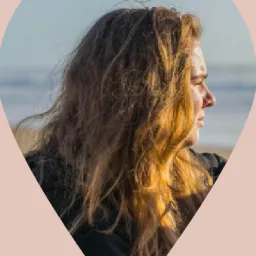
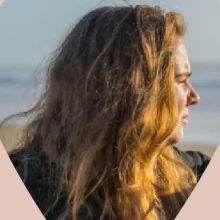
Réponses d’Océane du 22/10 : débuts en 2021, parcours, véhicules jusqu’au permis BE, TVA récupérable pour les pros, trois qualités d’Océane (À propos), dans les deux versions

diff --git a/ancienne/index.html b/ancienne/index.html
@@ -1059,10 +1059,10 @@ ul{list-style:none}
 .matiere .carte-aud__voile{opacity:.32}.matiere .carte-aud__voile-h{opacity:.3}.matiere .carte-aud__voile-t{display:none}
 /* le flou n'est pas un backdrop-filter : masqué dans une carte inclinée en 3D, Chrome perd son dégradé et trace une limite nette.
    C'est une copie floutée de la photo (.carte-aud__flou, ajoutée par theme-matiere.js), masquée en dégradé ; ::after ne garde que la teinte */
-.matiere .carte-aud>.carte-aud__flou{position:absolute;inset:0;width:100%;height:100%;object-fit:cover;z-index:-3;pointer-events:none;
+.matiere .carte-aud .carte-aud__flou{position:absolute;inset:0;width:100%;height:100%;object-fit:cover;z-index:-3;pointer-events:none;
   filter:blur(20px) saturate(1.25) contrast(1.03) brightness(1.04);transform:scale(1.12);transition:transform .6s var(--ease);
   -webkit-mask-image:linear-gradient(to bottom,transparent 36%,#000 58%);mask-image:linear-gradient(to bottom,transparent 36%,#000 58%)}
-.matiere .carte-aud:hover>.carte-aud__flou{transform:scale(1.19)}
+.matiere .carte-aud:hover .carte-aud__flou{transform:scale(1.19)}
 .matiere .carte-aud::after{content:"";position:absolute;left:0;right:0;bottom:0;height:64%;z-index:-1;pointer-events:none;
   background:linear-gradient(to bottom,rgba(68,64,62,0),rgba(68,64,62,.5) 45%,rgba(68,64,62,.66));
   -webkit-mask-image:linear-gradient(to bottom,transparent,#000 34%);mask-image:linear-gradient(to bottom,transparent,#000 34%)}
@@ -1232,6 +1232,8 @@ picture{display:contents}
 .presta__chapo{width:520px;flex:none;opacity:.85}
 .presta__cartes{display:flex;gap:24px}
 .presta__cartes .carte-aud{flex:1}
+/* la photo est dans un <picture> depuis le 08/10 : il ne doit pas compter dans la mise en page, sinon la photo s'affiche dans un cadre au lieu de remplir la carte */
+.carte-aud>picture{display:contents}
 .carte-aud__btn{margin-top:28px;align-self:flex-start;pointer-events:none}
 .carte-aud:hover .carte-aud__btn{gap:24px;padding-left:30px}
 .carte-aud:hover .carte-aud__btn .btn__rond{transform:scale(1.157)}
@@ -1450,8 +1452,10 @@ picture{display:contents}
   .presta__chapo{font-size:16px;line-height:1.65}
   .presta__cartes{flex-direction:column;gap:20px}
   .carte-aud{height:560px;padding:28px 24px}
+  /* hauteur de 560 rendue aux cartes (flex:1 l'annulait en colonne) ; libellé à 13 px pour que « Découvrir l'offre professionnelle » tienne dans la carte */
+  .presta__cartes .carte-aud{flex:none;padding-inline:20px}
   .carte-aud__titre{font-size:30px}
-  .carte-aud__btn{height:52px;padding-left:22px}
+  .carte-aud__btn,.carte-aud:hover .carte-aud__btn{height:52px;padding-left:18px;gap:10px;font-size:13px}
   .trajet{gap:40px}
   .deroule--5{grid-template-columns:1fr;gap:32px;padding-left:48px}
   .deroule--5::before{display:block}
@@ -1560,7 +1564,7 @@ picture{display:contents}
     <div class="fond-sig"></div>
     <div class="epingle rv"><picture><source media="(max-width: 767px)" srcset="assets/img/nda/accueil-interieur-m.webp"><img src="assets/img/nda/accueil-interieur-d.webp" alt="Habitacle d’une voiture : volant et sièges en cuir clair." loading="lazy" decoding="async"></picture></div>
     <div class="manif__txt rv">
-      <h2 id="acc-manif"><span class="t-manifeste">Océane, convoyeuse<br> professionnelle</span> <span class="a-poster-m">depuis 2022.</span></h2>
+      <h2 id="acc-manif"><span class="t-manifeste">Océane, convoyeuse<br> professionnelle</span> <span class="a-poster-m">depuis 2021.</span></h2>
       <p class="t-chapo manif__chapo">Océane Agoutborde a fondé OA Convoyage pour offrir un service de convoyage de véhicules fiable, humain et transparent. Fondatrice et convoyeuse, avec son équipe elle assure un suivi personnalisé de chaque trajet.</p>
       <div class="sig"><img class="sig__portrait" src="assets/img/nda/portrait-signature.webp" alt="Portrait d’Océane Agoutborde" loading="lazy"><div class="sig__txt"><b>Océane Agoutborde</b><span class="t-petit">Fondatrice et convoyeuse.</span></div></div>
     </div>
@@ -1691,15 +1695,14 @@ picture{display:contents}
     <div class="intro__acc rv"><h2 class="t-manifeste" id="pro-intro">Vos transferts entre agences,<br class="d-only"> sans mobiliser vos équipes.</h2></div>
     <div class="intro__desc rv">
       <p class="t-chapo">Agences de location, concessions, négociants, gestionnaires de flotte&nbsp;: quand un véhicule doit passer d’une agence à l’autre, OA Convoyage organise le trajet, de la prise en charge à la remise des clés. Un convoyeur de l’équipe le récupère à l’agence de départ et le conduit par la route jusqu’à l’agence d’arrivée, en France comme à l’étranger. OA Convoyage livre aussi vos véhicules au domicile de vos clients.</p>
-      <p class="t-chapo">Au départ et à l’arrivée, un état des lieux est documenté. L’identité du convoyeur vous est communiquée avant le départ, et vous êtes informé aux étapes clés du trajet. Livraison en moins de 48&nbsp;h. Vous êtes un particulier&nbsp;? <a class="lien-texte" href="#particuliers">Voir le convoyage pour les particuliers</a>.</p>
-      <p class="l-micro ph">[Ce qui change pour un professionnel (demande, devis, paiement, documents, transferts réguliers)&nbsp;: à confirmer avec Océane]</p>
+      <p class="t-chapo">Au départ et à l’arrivée, un état des lieux est documenté. L’identité du convoyeur vous est communiquée avant le départ, et vous êtes informé aux étapes clés du trajet. Livraison en moins de 48&nbsp;h. En tant que professionnel, vous bénéficiez de la même prestation qu’un particulier, et vous récupérez la TVA. Vous êtes un particulier&nbsp;? <a class="lien-texte" href="#particuliers">Voir le convoyage pour les particuliers</a>.</p>
     </div>
   </section>
 
   <!-- ============================================ l'essentiel -->
   <section class="sec sec--rose fiche" aria-labelledby="pro-essentiel">
     <div class="fiche__tete rv"><h2 class="t-manifeste" id="pro-essentiel">L’essentiel, en un coup d’œil.</h2></div>
-    <div class="fiche__lignes rv"><div class="fiche__ligne"><span class="l-micro">Pour qui</span><p class="t-courant">Agences de location, concessions, négociants, gestionnaires de flotte.</p></div><div class="fiche__ligne"><span class="l-micro">Ce qui est compris</span><p class="t-courant">Prise en charge à l’agence de départ<br>Conduite jusqu’à l’agence d’arrivée ou au domicile de votre client<br>État des lieux documenté au départ et à l’arrivée<br>Carburant et péages inclus<br><span class="ph">[Retour du convoyeur&nbsp;: à confirmer]</span></p></div><div class="fiche__ligne"><span class="l-micro">Délai</span><p class="t-courant">Livraison en moins de 48&nbsp;h. <span class="ph">[Point de départ du délai à préciser]</span></p></div><div class="fiche__ligne"><span class="l-micro">Zone</span><p class="t-courant">Toute la France et l’étranger, d’un point A à un point B. <span class="ph">[Pays desservis et éventuelles limites&nbsp;: à confirmer]</span></p></div><div class="fiche__ligne"><span class="l-micro">Trajets récents</span><p class="t-courant">Toulouse&nbsp;→&nbsp;Paris, Mont-de-Marsan&nbsp;→&nbsp;Annemasse, Megève&nbsp;→&nbsp;Castres, et de la Suède vers la France. <a class="lien-texte" href="#convoyages">Voir les convoyages réalisés</a></p></div><div class="fiche__ligne"><span class="l-micro">Véhicules</span><p class="t-courant"><span class="ph">[Types de véhicules et limites (poids, permis) à confirmer]</span></p></div><div class="fiche__ligne"><span class="l-micro">Assurance</span><p class="t-courant"><span class="ph">[Assurance et garanties applicables à confirmer]</span></p></div><div class="fiche__ligne"><span class="l-micro">Prix</span><p class="t-courant">Prix ferme établi après étude de votre demande, carburant et péages inclus.</p></div></div>
+    <div class="fiche__lignes rv"><div class="fiche__ligne"><span class="l-micro">Pour qui</span><p class="t-courant">Agences de location, concessions, négociants, gestionnaires de flotte.</p></div><div class="fiche__ligne"><span class="l-micro">Ce qui est compris</span><p class="t-courant">Prise en charge à l’agence de départ<br>Conduite jusqu’à l’agence d’arrivée ou au domicile de votre client<br>État des lieux documenté au départ et à l’arrivée<br>Carburant et péages inclus<br><span class="ph">[Retour du convoyeur&nbsp;: à confirmer]</span></p></div><div class="fiche__ligne"><span class="l-micro">Délai</span><p class="t-courant">Livraison en moins de 48&nbsp;h. <span class="ph">[Point de départ du délai à préciser]</span></p></div><div class="fiche__ligne"><span class="l-micro">Zone</span><p class="t-courant">Toute la France et l’étranger, d’un point A à un point B. <span class="ph">[Pays desservis et éventuelles limites&nbsp;: à confirmer]</span></p></div><div class="fiche__ligne"><span class="l-micro">Trajets récents</span><p class="t-courant">Toulouse&nbsp;→&nbsp;Paris, Mont-de-Marsan&nbsp;→&nbsp;Annemasse, Megève&nbsp;→&nbsp;Castres, et de la Suède vers la France. <a class="lien-texte" href="#convoyages">Voir les convoyages réalisés</a></p></div><div class="fiche__ligne"><span class="l-micro">Véhicules</span><p class="t-courant">Tout véhicule jusqu’au permis BE&nbsp;: voitures et utilitaires de moins de 3,5&nbsp;t, avec ou sans remorque. Pas de motos ni de poids lourds.</p></div><div class="fiche__ligne"><span class="l-micro">Assurance</span><p class="t-courant"><span class="ph">[Assurance et garanties applicables à confirmer]</span></p></div><div class="fiche__ligne"><span class="l-micro">Prix</span><p class="t-courant">Prix ferme établi après étude de votre demande, carburant et péages inclus. TVA récupérable.</p></div></div>
   </section>
 
   <!-- ============================================ le déroulé -->
@@ -1789,14 +1792,14 @@ picture{display:contents}
     <div class="intro__desc rv">
       <p class="t-chapo">Vous avez trouvé la bonne voiture loin de chez vous, ou le temps vous manque pour aller la chercher&nbsp;: OA Convoyage organise le trajet, de la prise en charge à la remise des clés. Un convoyeur la récupère et la conduit par la route jusqu’à votre domicile.</p>
       <p class="t-chapo">Au départ et à l’arrivée, un état des lieux est documenté. L’identité du convoyeur vous est communiquée avant le départ, et vous êtes informé aux étapes clés du trajet. Livraison en moins de 48&nbsp;h. Vous êtes un professionnel de l’automobile&nbsp;? <a class="lien-texte" href="#professionnels">Voir le convoyage pour les professionnels</a>.</p>
-      <p class="l-micro ph">[Ce qui change pour un particulier (demande, devis, paiement, documents, et pour un achat à distance ce qui se passe chez le vendeur)&nbsp;: à confirmer avec Océane]</p>
+      <p class="l-micro ph">[Achat à distance&nbsp;: ce qui se passe chez le vendeur, à confirmer avec Océane]</p>
     </div>
   </section>
 
   <!-- ============================================ l'essentiel -->
   <section class="sec sec--rose fiche" aria-labelledby="part-essentiel">
     <div class="fiche__tete rv"><h2 class="t-manifeste" id="part-essentiel">L’essentiel, en un coup d’œil.</h2></div>
-    <div class="fiche__lignes rv"><div class="fiche__ligne"><span class="l-micro">Pour qui</span><p class="t-courant">Particuliers&nbsp;: un véhicule acheté à distance, ou à faire livrer chez soi.</p></div><div class="fiche__ligne"><span class="l-micro">Ce qui est compris</span><p class="t-courant">Récupération du véhicule là où il se trouve<br>Conduite jusqu’à votre domicile<br>État des lieux documenté au départ et à l’arrivée<br>Carburant et péages inclus<br><span class="ph">[Retour du convoyeur&nbsp;: à confirmer]</span></p></div><div class="fiche__ligne"><span class="l-micro">Délai</span><p class="t-courant">Livraison en moins de 48&nbsp;h. <span class="ph">[Point de départ du délai à préciser]</span></p></div><div class="fiche__ligne"><span class="l-micro">Zone</span><p class="t-courant">Toute la France et l’étranger, d’un point A à un point B. <span class="ph">[Pays desservis et éventuelles limites&nbsp;: à confirmer]</span></p></div><div class="fiche__ligne"><span class="l-micro">Trajets récents</span><p class="t-courant">Toulouse&nbsp;→&nbsp;Montélimar, La Rochelle&nbsp;→&nbsp;Toulouse, Megève&nbsp;→&nbsp;Castres, et de la Suède vers la France. <a class="lien-texte" href="#convoyages">Voir les convoyages réalisés</a></p></div><div class="fiche__ligne"><span class="l-micro">Véhicules</span><p class="t-courant"><span class="ph">[Types de véhicules et limites (poids, permis) à confirmer]</span></p></div><div class="fiche__ligne"><span class="l-micro">Assurance</span><p class="t-courant"><span class="ph">[Assurance et garanties applicables à confirmer]</span></p></div><div class="fiche__ligne"><span class="l-micro">Prix</span><p class="t-courant">Prix ferme établi après étude de votre demande, carburant et péages inclus.</p></div></div>
+    <div class="fiche__lignes rv"><div class="fiche__ligne"><span class="l-micro">Pour qui</span><p class="t-courant">Particuliers&nbsp;: un véhicule acheté à distance, ou à faire livrer chez soi.</p></div><div class="fiche__ligne"><span class="l-micro">Ce qui est compris</span><p class="t-courant">Récupération du véhicule là où il se trouve<br>Conduite jusqu’à votre domicile<br>État des lieux documenté au départ et à l’arrivée<br>Carburant et péages inclus<br><span class="ph">[Retour du convoyeur&nbsp;: à confirmer]</span></p></div><div class="fiche__ligne"><span class="l-micro">Délai</span><p class="t-courant">Livraison en moins de 48&nbsp;h. <span class="ph">[Point de départ du délai à préciser]</span></p></div><div class="fiche__ligne"><span class="l-micro">Zone</span><p class="t-courant">Toute la France et l’étranger, d’un point A à un point B. <span class="ph">[Pays desservis et éventuelles limites&nbsp;: à confirmer]</span></p></div><div class="fiche__ligne"><span class="l-micro">Trajets récents</span><p class="t-courant">Toulouse&nbsp;→&nbsp;Montélimar, La Rochelle&nbsp;→&nbsp;Toulouse, Megève&nbsp;→&nbsp;Castres, et de la Suède vers la France. <a class="lien-texte" href="#convoyages">Voir les convoyages réalisés</a></p></div><div class="fiche__ligne"><span class="l-micro">Véhicules</span><p class="t-courant">Tout véhicule jusqu’au permis BE&nbsp;: voitures et utilitaires de moins de 3,5&nbsp;t, avec ou sans remorque. Pas de motos ni de poids lourds.</p></div><div class="fiche__ligne"><span class="l-micro">Assurance</span><p class="t-courant"><span class="ph">[Assurance et garanties applicables à confirmer]</span></p></div><div class="fiche__ligne"><span class="l-micro">Prix</span><p class="t-courant">Prix ferme établi après étude de votre demande, carburant et péages inclus.</p></div></div>
   </section>
 
   <!-- ============================================ le déroulé -->
@@ -1870,7 +1873,7 @@ picture{display:contents}
     <div class="poster-portrait__lockup">
       <nav class="poster__ariane l-micro" aria-label="Fil d’Ariane"><a href="#accueil">Accueil</a> › À propos</nav>
       <h1 id="ap-titre"><span class="poster__titre t-poster-m">Ceux à qui vous<br class="d-only"> pouvez confier</span><span class="poster__accent a-poster-m">ce qui compte.</span></h1>
-      <p class="poster-portrait__sous t-chapo">Passionnée d’automobile depuis l’enfance, Océane Agoutborde convoie des véhicules depuis 2022 et a fondé OA Convoyage. Elle reste au volant, avec <span class="ph">[Prénom du convoyeur]</span>, le convoyeur qu’elle a embauché à temps plein.</p>
+      <p class="poster-portrait__sous t-chapo">Passionnée d’automobile depuis l’enfance, Océane Agoutborde convoie des véhicules depuis 2021 et a fondé OA Convoyage. Elle reste au volant, avec <span class="ph">[Prénom du convoyeur]</span>, le convoyeur qu’elle a embauché à temps plein.</p>
       <div class="poster-portrait__actions"><a class="btn btn--contour" href="#" data-goto="ap-parcours"><span>Son parcours</span><span class="btn__rond"><i data-i="arrow-down"></i></span></a></div>
     </div>
     <div class="epingle"><picture><source media="(max-width: 767px)" srcset="assets/img/nda/apropos-hero-m.webp"><img src="assets/img/nda/apropos-hero-d.webp" alt="Main posée sur le volant, forêt à la vitre." loading="eager" decoding="async"></picture></div>
@@ -1888,7 +1891,7 @@ picture{display:contents}
         <div class="piste__rail">
           <span class="piste__fill"></span>
           <span class="piste__car" aria-hidden="true"><i data-i="car"></i></span>
-          <div class="jalon"><div class="jalon__rail"><span class="jalon__route"></span><span class="jalon__pin"><svg viewBox="0 0 26 34" fill="none"><path d="M13 33.25C13 33.25 .65 20.25 .65 13.1C.65 11.48.97 9.87 1.59 8.37C2.21 6.88 3.12 5.51 4.27 4.37C5.41 3.22 6.78 2.31 8.27 1.69C9.77 1.07 11.38.75 13 .75C14.62.75 16.23 1.07 17.73 1.69C19.22 2.31 20.59 3.22 21.73 4.37C22.88 5.51 23.79 6.88 24.41 8.37C25.03 9.87 25.35 11.48 25.35 13.1C25.35 20.25 13 33.25 13 33.25Z" stroke="#5E5F5F" stroke-width="1.52"/><circle cx="13" cy="12.88" r="4.33" fill="#5E5F5F"/></svg></span></div><div class="jalon__txt"><span class="t-poster-m">2022</span><h3 class="t-h3">Les débuts dans le convoyage</h3><p class="t-courant">Après un premier emploi dans la vente, Océane fait de sa passion son métier&nbsp;: elle commence à convoyer des véhicules en indépendante, d’abord via les plateformes de convoyage.</p></div></div><div class="jalon"><div class="jalon__rail"><span class="jalon__route"></span><span class="jalon__pin"><svg viewBox="0 0 26 34" fill="none"><path d="M13 33.25C13 33.25 .65 20.25 .65 13.1C.65 11.48.97 9.87 1.59 8.37C2.21 6.88 3.12 5.51 4.27 4.37C5.41 3.22 6.78 2.31 8.27 1.69C9.77 1.07 11.38.75 13 .75C14.62.75 16.23 1.07 17.73 1.69C19.22 2.31 20.59 3.22 21.73 4.37C22.88 5.51 23.79 6.88 24.41 8.37C25.03 9.87 25.35 11.48 25.35 13.1C25.35 20.25 13 33.25 13 33.25Z" stroke="#5E5F5F" stroke-width="1.52"/><circle cx="13" cy="12.88" r="4.33" fill="#5E5F5F"/></svg></span></div><div class="jalon__txt"><span class="t-poster-m">2022–2025</span><h3 class="t-h3">Des clients en direct</h3><p class="t-courant">Les demandes en direct se multiplient, de particuliers comme de professionnels de l’automobile, avec des trajets longue distance réguliers, jusqu’à ce qu’Océane quitte les plateformes. <span class="ph">[Détails à confirmer]</span></p></div></div><div class="jalon"><div class="jalon__rail"><span class="jalon__route"></span><span class="jalon__pin"><svg viewBox="0 0 26 34" fill="none"><path d="M13 33.25C13 33.25 .65 20.25 .65 13.1C.65 11.48.97 9.87 1.59 8.37C2.21 6.88 3.12 5.51 4.27 4.37C5.41 3.22 6.78 2.31 8.27 1.69C9.77 1.07 11.38.75 13 .75C14.62.75 16.23 1.07 17.73 1.69C19.22 2.31 20.59 3.22 21.73 4.37C22.88 5.51 23.79 6.88 24.41 8.37C25.03 9.87 25.35 11.48 25.35 13.1C25.35 20.25 13 33.25 13 33.25Z" stroke="#5E5F5F" stroke-width="1.52"/><circle cx="13" cy="12.88" r="4.33" fill="#5E5F5F"/></svg></span></div><div class="jalon__txt"><span class="t-poster-m">2025</span><h3 class="t-h3">Création d’OA Convoyage (EURL)</h3><p class="t-courant">L’activité se structure&nbsp;: création d’une société dédiée, pour répondre aux demandes des professionnels comme des particuliers dans un cadre clair.</p></div></div><div class="jalon"><div class="jalon__rail"><span class="jalon__route"></span><span class="jalon__pin"><svg viewBox="0 0 26 34" fill="none"><path d="M13 33.25C13 33.25 .65 20.25 .65 13.1C.65 11.48.97 9.87 1.59 8.37C2.21 6.88 3.12 5.51 4.27 4.37C5.41 3.22 6.78 2.31 8.27 1.69C9.77 1.07 11.38.75 13 .75C14.62.75 16.23 1.07 17.73 1.69C19.22 2.31 20.59 3.22 21.73 4.37C22.88 5.51 23.79 6.88 24.41 8.37C25.03 9.87 25.35 11.48 25.35 13.1C25.35 20.25 13 33.25 13 33.25Z" stroke="#5E5F5F" stroke-width="1.52"/><circle cx="13" cy="12.88" r="4.33" fill="#5E5F5F"/></svg></span></div><div class="jalon__txt"><span class="a-poster-m">Aujourd’hui</span><h3 class="t-h3">Deux convoyeurs</h3><p class="t-courant">Océane a embauché un convoyeur à temps plein, à qui elle commence à confier des missions, et reste elle-même au volant. <span class="ph">[Date d’arrivée&nbsp;: à confirmer]</span></p></div></div>
+          <div class="jalon"><div class="jalon__rail"><span class="jalon__route"></span><span class="jalon__pin"><svg viewBox="0 0 26 34" fill="none"><path d="M13 33.25C13 33.25 .65 20.25 .65 13.1C.65 11.48.97 9.87 1.59 8.37C2.21 6.88 3.12 5.51 4.27 4.37C5.41 3.22 6.78 2.31 8.27 1.69C9.77 1.07 11.38.75 13 .75C14.62.75 16.23 1.07 17.73 1.69C19.22 2.31 20.59 3.22 21.73 4.37C22.88 5.51 23.79 6.88 24.41 8.37C25.03 9.87 25.35 11.48 25.35 13.1C25.35 20.25 13 33.25 13 33.25Z" stroke="#5E5F5F" stroke-width="1.52"/><circle cx="13" cy="12.88" r="4.33" fill="#5E5F5F"/></svg></span></div><div class="jalon__txt"><span class="t-poster-m">2021</span><h3 class="t-h3">Les débuts dans le convoyage</h3><p class="t-courant">Après le Covid, Océane quitte l’animalerie et sa routine. Passionnée d’automobile depuis toute petite, elle se lance dans le convoyage, d’abord via les plateformes.</p></div></div><div class="jalon"><div class="jalon__rail"><span class="jalon__route"></span><span class="jalon__pin"><svg viewBox="0 0 26 34" fill="none"><path d="M13 33.25C13 33.25 .65 20.25 .65 13.1C.65 11.48.97 9.87 1.59 8.37C2.21 6.88 3.12 5.51 4.27 4.37C5.41 3.22 6.78 2.31 8.27 1.69C9.77 1.07 11.38.75 13 .75C14.62.75 16.23 1.07 17.73 1.69C19.22 2.31 20.59 3.22 21.73 4.37C22.88 5.51 23.79 6.88 24.41 8.37C25.03 9.87 25.35 11.48 25.35 13.1C25.35 20.25 13 33.25 13 33.25Z" stroke="#5E5F5F" stroke-width="1.52"/><circle cx="13" cy="12.88" r="4.33" fill="#5E5F5F"/></svg></span></div><div class="jalon__txt"><span class="t-poster-m">2023</span><h3 class="t-h3">Remarquée sur LinkedIn</h3><p class="t-courant">Après deux ans de plateformes, Océane se fait remarquer sur LinkedIn&nbsp;: elle travaille désormais en direct, en collaboration avec de nombreuses concessions.</p></div></div><div class="jalon"><div class="jalon__rail"><span class="jalon__route"></span><span class="jalon__pin"><svg viewBox="0 0 26 34" fill="none"><path d="M13 33.25C13 33.25 .65 20.25 .65 13.1C.65 11.48.97 9.87 1.59 8.37C2.21 6.88 3.12 5.51 4.27 4.37C5.41 3.22 6.78 2.31 8.27 1.69C9.77 1.07 11.38.75 13 .75C14.62.75 16.23 1.07 17.73 1.69C19.22 2.31 20.59 3.22 21.73 4.37C22.88 5.51 23.79 6.88 24.41 8.37C25.03 9.87 25.35 11.48 25.35 13.1C25.35 20.25 13 33.25 13 33.25Z" stroke="#5E5F5F" stroke-width="1.52"/><circle cx="13" cy="12.88" r="4.33" fill="#5E5F5F"/></svg></span></div><div class="jalon__txt"><span class="t-poster-m">2025</span><h3 class="t-h3">Création d’OA Convoyage (EURL)</h3><p class="t-courant">L’activité se structure&nbsp;: création d’une société dédiée, pour répondre aux demandes des professionnels comme des particuliers dans un cadre clair.</p></div></div><div class="jalon"><div class="jalon__rail"><span class="jalon__route"></span><span class="jalon__pin"><svg viewBox="0 0 26 34" fill="none"><path d="M13 33.25C13 33.25 .65 20.25 .65 13.1C.65 11.48.97 9.87 1.59 8.37C2.21 6.88 3.12 5.51 4.27 4.37C5.41 3.22 6.78 2.31 8.27 1.69C9.77 1.07 11.38.75 13 .75C14.62.75 16.23 1.07 17.73 1.69C19.22 2.31 20.59 3.22 21.73 4.37C22.88 5.51 23.79 6.88 24.41 8.37C25.03 9.87 25.35 11.48 25.35 13.1C25.35 20.25 13 33.25 13 33.25Z" stroke="#5E5F5F" stroke-width="1.52"/><circle cx="13" cy="12.88" r="4.33" fill="#5E5F5F"/></svg></span></div><div class="jalon__txt"><span class="a-poster-m">Aujourd’hui</span><h3 class="t-h3">Deux convoyeurs</h3><p class="t-courant">Océane a embauché un convoyeur à temps plein, à qui elle commence à confier des missions, et reste elle-même au volant. <span class="ph">[Date d’arrivée&nbsp;: à confirmer]</span></p></div></div>
         </div>
       </div>
       <div class="piste-sec__notes">
@@ -1904,10 +1907,10 @@ picture{display:contents}
     <div class="exig">
       <div class="exig__tete rv">
         <h2 class="t-manifeste" id="ap-exig">Ce que nous exigeons<br class="d-only"> sur chaque mission.</h2>
-        <p class="t-chapo">Les standards tenus sur chaque mission, du départ à la livraison, pour les <a class="lien-texte" href="#professionnels">professionnels</a> comme pour les <a class="lien-texte" href="#particuliers">particuliers</a>.</p>
-        <p class="l-micro ph">[Qualités et formulations à confirmer&nbsp;: ne rien affirmer qui n’ait été validé par Océane]</p>
+        <p class="t-chapo">Efficacité, bonne humeur et professionnalisme&nbsp;: les mots d’Océane pour décrire OA Convoyage, tenus sur chaque mission pour les <a class="lien-texte" href="#professionnels">professionnels</a> comme pour les <a class="lien-texte" href="#particuliers">particuliers</a>.</p>
+        <p class="l-micro ph">[Les trois qualités sont celles d’Océane (22/10)&nbsp;; leurs descriptions sont à lui faire valider]</p>
       </div>
-      <div class="qualites rv" data-js="qualites"><div class="qualite is-on"><div class="qualite__txt"><span class="qualite__t t-poster-s">Sérieux</span><div class="qualite__d"><p class="t-chapo">Chaque mission est préparée en amont par le convoyeur&nbsp;: rendez-vous, documents, contacts sur place.</p></div></div></div><div class="qualite"><div class="qualite__txt"><span class="qualite__t t-poster-s">Ponctualité</span><div class="qualite__d"><p class="t-chapo">Les horaires convenus sont tenus&nbsp;; le client est prévenu du moindre imprévu sur la route.</p></div></div></div><div class="qualite"><div class="qualite__txt"><span class="qualite__t t-poster-s">Communication</span><div class="qualite__d"><p class="t-chapo">Le client sait où en est son véhicule et qui le conduit, sans avoir à relancer.</p></div></div></div><div class="qualite"><div class="qualite__txt"><span class="qualite__t t-poster-s">Attention au véhicule</span><div class="qualite__d"><p class="t-chapo">Une conduite adaptée à chaque véhicule, un état des lieux documenté au départ et à l’arrivée.</p></div></div></div><div class="qualite"><div class="qualite__txt"><span class="qualite__t t-poster-s">Professionnalisme</span><div class="qualite__d"><p class="t-chapo">Une présentation et une attitude à la hauteur des clients qui nous confient leur véhicule.</p></div></div></div></div>
+      <div class="qualites rv" data-js="qualites"><div class="qualite is-on"><div class="qualite__txt"><span class="qualite__t t-poster-s">Efficacité</span><div class="qualite__d"><p class="t-chapo">Chaque mission est préparée en amont&nbsp;: rendez-vous, documents, contacts sur place. Les horaires convenus sont tenus, et le véhicule est livré en moins de 48&nbsp;h.</p></div></div></div><div class="qualite"><div class="qualite__txt"><span class="qualite__t t-poster-s">Bonne humeur</span><div class="qualite__d"><p class="t-chapo">Un convoyage sans stress, du premier appel à la remise des clés. Vous êtes informé aux étapes clés du trajet, sans avoir à relancer.</p></div></div></div><div class="qualite"><div class="qualite__txt"><span class="qualite__t t-poster-s">Professionnalisme</span><div class="qualite__d"><p class="t-chapo">Une présentation et une attitude à la hauteur des clients qui nous confient leur véhicule, et un état des lieux documenté au départ et à l’arrivée.</p></div></div></div></div>
     </div>
   </section>
 
@@ -1984,7 +1987,7 @@ picture{display:contents}
             <label class="champ champ--aide"><input class="champ__in" name="depart" type="text" autocomplete="off" placeholder="Adresse, code postal, ville" required><span class="champ__lib">Adresse de départ *</span><span class="champ__ligne"></span><span class="champ__active"></span><span class="champ__aide">Où se trouve le véhicule</span></label>
             <label class="champ champ--aide"><input class="champ__in" name="arrivee" type="text" autocomplete="off" placeholder="Adresse, code postal, ville" required><span class="champ__lib">Adresse d’arrivée *</span><span class="champ__ligne"></span><span class="champ__active"></span><span class="champ__aide">Où le véhicule doit être livré</span></label>
           </div>
-          <label class="champ champ--aide champ--liste is-up"><select class="champ__in" name="vehicule"><option value="" selected>Choisir</option><option value="citadine">Citadine ou berline</option><option value="suv">SUV ou monospace</option><option value="utilitaire">Utilitaire</option><option value="autre">Autre</option></select><span class="champ__lib">Type de véhicule</span><i class="champ__chevron" data-i="chevron-down"></i><span class="champ__ligne"></span><span class="champ__active"></span><span class="champ__aide">Citadine ou berline, SUV ou monospace, utilitaire, autre <span class="ph">[liste à confirmer]</span></span></label>
+          <label class="champ champ--aide champ--liste is-up"><select class="champ__in" name="vehicule"><option value="" selected>Choisir</option><option value="citadine">Citadine ou berline</option><option value="suv">SUV ou monospace</option><option value="utilitaire">Utilitaire</option><option value="autre">Autre</option></select><span class="champ__lib">Type de véhicule</span><i class="champ__chevron" data-i="chevron-down"></i><span class="champ__ligne"></span><span class="champ__active"></span><span class="champ__aide">Tout véhicule jusqu’au permis BE, avec ou sans remorque. Pas de motos.</span></label>
           <div class="form-rangee">
             <label class="champ champ--aide"><input class="champ__in" name="nom" type="text" autocomplete="family-name" placeholder="Votre nom" required><span class="champ__lib">Nom *</span><span class="champ__ligne"></span><span class="champ__active"></span><span class="champ__aide">Pour savoir à qui nous répondons</span></label>
             <label class="champ champ--aide"><input class="champ__in" name="prenom" type="text" autocomplete="given-name" placeholder="Votre prénom" required><span class="champ__lib">Prénom *</span><span class="champ__ligne"></span><span class="champ__active"></span><span class="champ__aide">Pour vous répondre personnellement</span></label>
@@ -2728,7 +2731,10 @@ window.OAonScroll(st => { allumer(); if (!reduce) { cible(st); if (!raf) raf = r
 window.OAonResize(allumer);
 
 // cartes : le flou sous le texte est une copie floutée de la photo, placée juste après elle (voir theme-matiere.css)
-$$('.carte-aud').forEach(c => { const ph = c.querySelector('.carte-aud__photo'); if (ph && !c.querySelector('.carte-aud__flou')) { const f = ph.cloneNode(); f.className = 'carte-aud__flou'; f.alt = ''; f.setAttribute('aria-hidden', 'true'); ph.after(f); } });
+$$('.carte-aud').forEach(c => { const ph = c.querySelector('.carte-aud__photo'); if (ph && !c.querySelector('.carte-aud__flou')) {
+  // photo dans un <picture> : on copie le <picture> entier, pour que le flou prenne la même image (mobile ou ordinateur) que la photo nette
+  const pic = ph.closest('picture'); const copie = (pic || ph).cloneNode(true); const f = pic ? copie.querySelector('img') : copie;
+  f.className = 'carte-aud__flou'; f.alt = ''; f.setAttribute('aria-hidden', 'true'); copie.setAttribute('aria-hidden', 'true'); (pic || ph).after(copie); } });
 
 // cartes : reflet qui suit le pointeur, inclinaison discrète
 $$('.carte-aud').forEach(c => {

diff --git a/nouvelle/a-propos.html b/nouvelle/a-propos.html
@@ -4,7 +4,7 @@
 <meta charset="utf-8">
 <meta name="viewport" content="width=device-width, initial-scale=1, viewport-fit=cover">
 <title>À propos d’OA Convoyage, Océane Agoutborde et son équipe</title>
-<meta name="description" content="Passionnée d’automobile, Océane Agoutborde convoie des véhicules depuis 2022 et a fondé OA Convoyage. Une équipe de deux, les mêmes procédures sur chaque mission.">
+<meta name="description" content="Passionnée d’automobile, Océane Agoutborde convoie des véhicules depuis 2021 et a fondé OA Convoyage. Une équipe de deux, les mêmes procédures sur chaque mission.">
 <meta name="robots" content="noindex, nofollow">
 <meta name="theme-color" content="#faf8f3">
 <link rel="icon" href="assets/svg/icone.svg" type="image/svg+xml">
@@ -40,7 +40,7 @@
     <div class="hero-public__texte">
       <nav class="ariane" aria-label="Fil d’Ariane"><ol><li><a href="accueil.html">Accueil</a></li><li aria-current="page">À propos</li></ol></nav>
       <h1 class="hero-public__titre" id="hero-titre"><span class="t-titre1 hero-public__ligne">Ceux à qui vous<br class="br-d"> pouvez confier</span> <span class="t-accent-m hero-public__accent" data-script>ce qui compte.</span></h1>
-      <p class="t-chapo hero-public__chapo hero-public__chapo--large">Passionnée d’automobile depuis l’enfance, Océane Agoutborde convoie des véhicules depuis 2022 et a fondé OA Convoyage. Elle reste au volant, avec [Prénom du convoyeur], le convoyeur qu’elle a embauché à temps plein.</p>
+      <p class="t-chapo hero-public__chapo hero-public__chapo--large">Passionnée d’automobile depuis l’enfance, Océane Agoutborde convoie des véhicules depuis 2021 et a fondé OA Convoyage. Elle reste au volant, avec [Prénom du convoyeur], le convoyeur qu’elle a embauché à temps plein.</p>
       <a class="lien lien--sombre hero-public__lien" href="#parcours"><span class="lien__ligne"><span class="lien__libelle">Son parcours</span><svg class="icone icone--fleche lien__fleche" viewBox="0 0 24 24" fill="none" stroke="currentColor" stroke-width="1.5" stroke-linecap="round" stroke-linejoin="round" aria-hidden="true" focusable="false"><path d="M5 12H19"/><path d="M12 5L19 12L12 19"/></svg>
 </span><span class="lien__trait" aria-hidden="true"></span></a>
 
@@ -66,17 +66,17 @@
       <ol class="jalons" data-jalons>
         <li class="jalons__filet" aria-hidden="true"></li>
         <li class="jalon jalon--passe" data-jalon data-carte>
-  <span class="jalon__annee">2022</span>
+  <span class="jalon__annee">2021</span>
   <span class="jalon__repere" aria-hidden="true"><span class="jalon__halo"></span><span class="jalon__anneau"></span></span>
   <h3 class="jalon__titre">Les débuts dans le convoyage</h3>
-  <p class="jalon__texte">Après un premier emploi dans la vente, Océane fait de sa passion son métier&nbsp;: elle commence à convoyer des véhicules en indépendante, d’abord via les plateformes de convoyage.</p>
+  <p class="jalon__texte">Après le Covid, Océane quitte l’animalerie et sa routine. Passionnée d’automobile depuis toute petite, elle se lance dans le convoyage, d’abord via les plateformes.</p>
 </li>
 
         <li class="jalon jalon--passe" data-jalon data-carte>
-  <span class="jalon__annee">2022–2025</span>
+  <span class="jalon__annee">2023</span>
   <span class="jalon__repere" aria-hidden="true"><span class="jalon__halo"></span><span class="jalon__anneau"></span></span>
-  <h3 class="jalon__titre">Des clients en direct</h3>
-  <p class="jalon__texte">Les demandes en direct se multiplient, de particuliers comme de professionnels de l’automobile, avec des trajets longue distance réguliers, jusqu’à ce qu’Océane quitte les plateformes. [Détails à confirmer]</p>
+  <h3 class="jalon__titre">Remarquée sur LinkedIn</h3>
+  <p class="jalon__texte">Après deux ans de plateformes, Océane se fait remarquer sur LinkedIn&nbsp;: elle travaille désormais en direct, en collaboration avec de nombreuses concessions.</p>
 </li>
 
         <li class="jalon jalon--passe" data-jalon data-carte>
@@ -103,7 +103,7 @@
 </button>
 </div>
 
-    <p class="crochet parcours__crochet">[Dates, étapes et éléments de parcours à valider avec Océane avant publication]</p>
+    <p class="crochet parcours__crochet">[2023&nbsp;: année déduite des «&nbsp;deux ans&nbsp;» de plateformes, à confirmer avec Océane]</p>
     <p class="crochet parcours__crochet parcours__crochet--2">[Citation proposée, tirée de son post LinkedIn&nbsp;: «&nbsp;C’est LE job de rêve, je travaille avec plaisir, […] je rencontre des gens incroyables.&nbsp;» Océane, fondatrice d’OA Convoyage. À valider avec elle]</p>
   </section>
 
@@ -111,19 +111,15 @@
   <section class="exigence" aria-labelledby="exigence-titre">
     <h2 class="t-titre2 exigence__titre" id="exigence-titre" data-lignes>Ce que nous exigeons<br class="br-d"> sur chaque mission.</h2>
     <dl class="fiche exigence__grille">
-      <div class="exigence__intro"><p class="t-chapo">Les standards tenus sur chaque mission, du départ à la livraison, pour les <a class="lien-texte" href="professionnels.html">professionnels</a> comme pour les <a class="lien-texte" href="particuliers.html">particuliers</a>.</p></div>
-      <div class="ligne-fiche "><dt class="ligne-fiche__libelle">Sérieux</dt><dd class="ligne-fiche__valeur">Chaque mission est préparée en amont par le convoyeur&nbsp;: rendez-vous, documents, contacts sur place.</dd></div>
+      <div class="exigence__intro"><p class="t-chapo">Efficacité, bonne humeur et professionnalisme&nbsp;: les mots d’Océane pour décrire OA Convoyage, tenus sur chaque mission pour les <a class="lien-texte" href="professionnels.html">professionnels</a> comme pour les <a class="lien-texte" href="particuliers.html">particuliers</a>.</p></div>
+      <div class="ligne-fiche "><dt class="ligne-fiche__libelle">Efficacité</dt><dd class="ligne-fiche__valeur">Chaque mission est préparée en amont&nbsp;: rendez-vous, documents, contacts sur place. Les horaires convenus sont tenus, et le véhicule est livré en moins de 48&nbsp;h.</dd></div>
 
-      <div class="ligne-fiche "><dt class="ligne-fiche__libelle">Ponctualité</dt><dd class="ligne-fiche__valeur">Les horaires convenus sont tenus&nbsp;; le client est prévenu du moindre imprévu sur la route.</dd></div>
+      <div class="ligne-fiche "><dt class="ligne-fiche__libelle">Bonne humeur</dt><dd class="ligne-fiche__valeur">Un convoyage sans stress, du premier appel à la remise des clés. Vous êtes informé aux étapes clés du trajet, sans avoir à relancer.</dd></div>
 
-      <div class="ligne-fiche "><dt class="ligne-fiche__libelle">Communication</dt><dd class="ligne-fiche__valeur">Le client sait où en est son véhicule et qui le conduit, sans avoir à relancer.</dd></div>
-
-      <div class="ligne-fiche "><dt class="ligne-fiche__libelle">Attention au véhicule</dt><dd class="ligne-fiche__valeur">Une conduite adaptée à chaque véhicule, un état des lieux documenté au départ et à l’arrivée.</dd></div>
-
-      <div class="ligne-fiche "><dt class="ligne-fiche__libelle">Professionnalisme</dt><dd class="ligne-fiche__valeur">Une présentation et une attitude à la hauteur des clients qui nous confient leur véhicule.</dd></div>
+      <div class="ligne-fiche "><dt class="ligne-fiche__libelle">Professionnalisme</dt><dd class="ligne-fiche__valeur">Une présentation et une attitude à la hauteur des clients qui nous confient leur véhicule, et un état des lieux documenté au départ et à l’arrivée.</dd></div>
 
     </dl>
-    <p class="crochet exigence__crochet">[Qualités et formulations à confirmer&nbsp;: ne rien affirmer qui n’ait été validé par Océane]</p>
+    <p class="crochet exigence__crochet">[Les trois qualités sont celles d’Océane (22/10)&nbsp;; leurs descriptions sont à lui faire valider]</p>
   </section>
 
   <!-- ================================================== l'équipe -->

diff --git a/nouvelle/professionnels.html b/nouvelle/professionnels.html
@@ -98,9 +98,8 @@
     <h2 class="t-titre2 intro-public__titre" id="intro-titre" data-lignes data-derive>Vos transferts entre agences,<br class="br-d"> sans mobiliser vos équipes.</h2>
     <div class="intro-public__colonnes">
       <p class="t-corps-l" data-monte>Agences de location, concessions, négociants, gestionnaires de flotte&nbsp;: quand un véhicule doit passer d’une agence à l’autre, OA Convoyage organise le trajet, de la prise en charge à la remise des clés. Un convoyeur de l’équipe le récupère à l’agence de départ et le conduit par la route jusqu’à l’agence d’arrivée, en France comme à l’étranger. OA Convoyage livre aussi vos véhicules au domicile de vos clients.</p>
-      <p class="t-corps-l" data-monte>Au départ et à l’arrivée, un état des lieux est documenté. L’identité du convoyeur vous est communiquée avant le départ, et vous êtes informé aux étapes clés du trajet. Livraison en moins de 48&nbsp;h. Vous êtes un particulier&nbsp;? <a class="lien-texte" href="particuliers.html">Voir le convoyage pour les particuliers</a>.</p>
+      <p class="t-corps-l" data-monte>Au départ et à l’arrivée, un état des lieux est documenté. L’identité du convoyeur vous est communiquée avant le départ, et vous êtes informé aux étapes clés du trajet. Livraison en moins de 48&nbsp;h. En tant que professionnel, vous bénéficiez de la même prestation qu’un particulier, et vous récupérez la TVA. Vous êtes un particulier&nbsp;? <a class="lien-texte" href="particuliers.html">Voir le convoyage pour les particuliers</a>.</p>
     </div>
-    <p class="crochet intro-public__crochet" data-monte>[Ce qui change pour un professionnel (demande, devis, paiement, documents, transferts réguliers)&nbsp;: à confirmer avec Océane]</p>
   </section>
 
   <!-- ============================================== l'essentiel -->
@@ -120,11 +119,11 @@
 
         <div class="ligne-fiche "><dt class="ligne-fiche__libelle">Trajets récents</dt><dd class="ligne-fiche__valeur">Toulouse&nbsp;→&nbsp;Paris, Mont-de-Marsan&nbsp;→&nbsp;Annemasse, Megève&nbsp;→&nbsp;Castres, et de la Suède vers la France. <a class="lien-texte" href="convoyages.html">Voir les convoyages réalisés</a></dd></div>
 
-        <div class="ligne-fiche "><dt class="ligne-fiche__libelle">Véhicules</dt><dd class="ligne-fiche__valeur">[Types de véhicules et limites (poids, permis) à confirmer]</dd></div>
+        <div class="ligne-fiche "><dt class="ligne-fiche__libelle">Véhicules</dt><dd class="ligne-fiche__valeur">Tout véhicule jusqu’au permis BE&nbsp;: voitures et utilitaires de moins de 3,5&nbsp;t, avec ou sans remorque. Pas de motos ni de poids lourds.</dd></div>
 
         <div class="ligne-fiche "><dt class="ligne-fiche__libelle">Assurance</dt><dd class="ligne-fiche__valeur">[Assurance et garanties applicables à confirmer]</dd></div>
 
-        <div class="ligne-fiche "><dt class="ligne-fiche__libelle">Prix</dt><dd class="ligne-fiche__valeur">Prix ferme établi après étude de votre demande, carburant et péages inclus.</dd></div>
+        <div class="ligne-fiche "><dt class="ligne-fiche__libelle">Prix</dt><dd class="ligne-fiche__valeur">Prix ferme établi après étude de votre demande, carburant et péages inclus. TVA récupérable.</dd></div>
 
       </dl>
     </div>

diff --git a/nouvelle/particuliers.html b/nouvelle/particuliers.html
@@ -100,7 +100,7 @@
       <p class="t-corps-l" data-monte>Vous avez trouvé la bonne voiture loin de chez vous, ou le temps vous manque pour aller la chercher&nbsp;: OA Convoyage organise le trajet, de la prise en charge à la remise des clés. Un convoyeur la récupère et la conduit par la route jusqu’à votre domicile.</p>
       <p class="t-corps-l" data-monte>Au départ et à l’arrivée, un état des lieux est documenté. L’identité du convoyeur vous est communiquée avant le départ, et vous êtes informé aux étapes clés du trajet. Livraison en moins de 48&nbsp;h. Vous êtes un professionnel de l’automobile&nbsp;? <a class="lien-texte" href="professionnels.html">Voir le convoyage pour les professionnels</a>.</p>
     </div>
-    <p class="crochet intro-public__crochet" data-monte>[Ce qui change pour un particulier (demande, devis, paiement, documents, et pour un achat à distance ce qui se passe chez le vendeur)&nbsp;: à confirmer avec Océane]</p>
+    <p class="crochet intro-public__crochet" data-monte>[Achat à distance&nbsp;: ce qui se passe chez le vendeur, à confirmer avec Océane]</p>
   </section>
 
   <!-- ============================================== l'essentiel -->
@@ -120,7 +120,7 @@
 
         <div class="ligne-fiche "><dt class="ligne-fiche__libelle">Trajets récents</dt><dd class="ligne-fiche__valeur">Toulouse&nbsp;→&nbsp;Montélimar, La Rochelle&nbsp;→&nbsp;Toulouse, Megève&nbsp;→&nbsp;Castres, et de la Suède vers la France. <a class="lien-texte" href="convoyages.html">Voir les convoyages réalisés</a></dd></div>
 
-        <div class="ligne-fiche "><dt class="ligne-fiche__libelle">Véhicules</dt><dd class="ligne-fiche__valeur">[Types de véhicules et limites (poids, permis) à confirmer]</dd></div>
+        <div class="ligne-fiche "><dt class="ligne-fiche__libelle">Véhicules</dt><dd class="ligne-fiche__valeur">Tout véhicule jusqu’au permis BE&nbsp;: voitures et utilitaires de moins de 3,5&nbsp;t, avec ou sans remorque. Pas de motos ni de poids lourds.</dd></div>
 
         <div class="ligne-fiche "><dt class="ligne-fiche__libelle">Assurance</dt><dd class="ligne-fiche__valeur">[Assurance et garanties applicables à confirmer]</dd></div>
 

diff --git a/nouvelle/contact.html b/nouvelle/contact.html
@@ -92,7 +92,7 @@
           <label class="champ__libelle" for="f-vehicule">Type de véhicule</label>
           <span class="champ__saisie"><select class="champ__controle" id="f-vehicule" name="vehicule" aria-describedby="f-vehicule-aide"><option value="" selected>Choisir</option><option value="citadine">Citadine ou berline</option><option value="suv">SUV ou monospace</option><option value="utilitaire">Utilitaire</option><option value="autre">Autre</option></select><svg class="icone icone--chevron champ__chevron" viewBox="0 0 24 24" fill="none" stroke="currentColor" stroke-width="1.5" stroke-linecap="round" stroke-linejoin="round" aria-hidden="true" focusable="false"><path d="M6 9L12 15L18 9"/></svg>
 </span>
-          <p class="champ__aide" id="f-vehicule-aide" data-aide>Citadine ou berline, SUV ou monospace, utilitaire, autre [liste à confirmer]</p>
+          <p class="champ__aide" id="f-vehicule-aide" data-aide>Tout véhicule jusqu’au permis BE, avec ou sans remorque. Pas de motos.</p>
         </div>
         <div class="formulaire__rangee">
           <div class="champ " data-champ="nom">

diff --git a/nouvelle/accueil.html b/nouvelle/accueil.html
@@ -98,7 +98,7 @@
   <!-- ================================================ manifeste -->
   <section class="manifeste" data-manifeste aria-labelledby="manifeste-titre">
     <div class="manifeste__texte">
-      <h2 class="t-titre2 manifeste__phrase" id="manifeste-titre" data-mots>Océane, convoyeuse professionnelle depuis 2022.</h2>
+      <h2 class="t-titre2 manifeste__phrase" id="manifeste-titre" data-mots>Océane, convoyeuse professionnelle depuis 2021.</h2>
       <p class="t-chapo manifeste__chapo">Océane Agoutborde a fondé OA Convoyage pour offrir un service de convoyage de véhicules fiable, humain et transparent. Fondatrice et convoyeuse, avec son équipe elle assure un suivi personnalisé de chaque trajet.</p>
       <div class="signature manifeste__signature">
   <img class="signature__portrait" src="assets/img/portrait-signature.webp" alt="Portrait d’Océane Agoutborde" width="64" height="64" loading="lazy" decoding="async">
